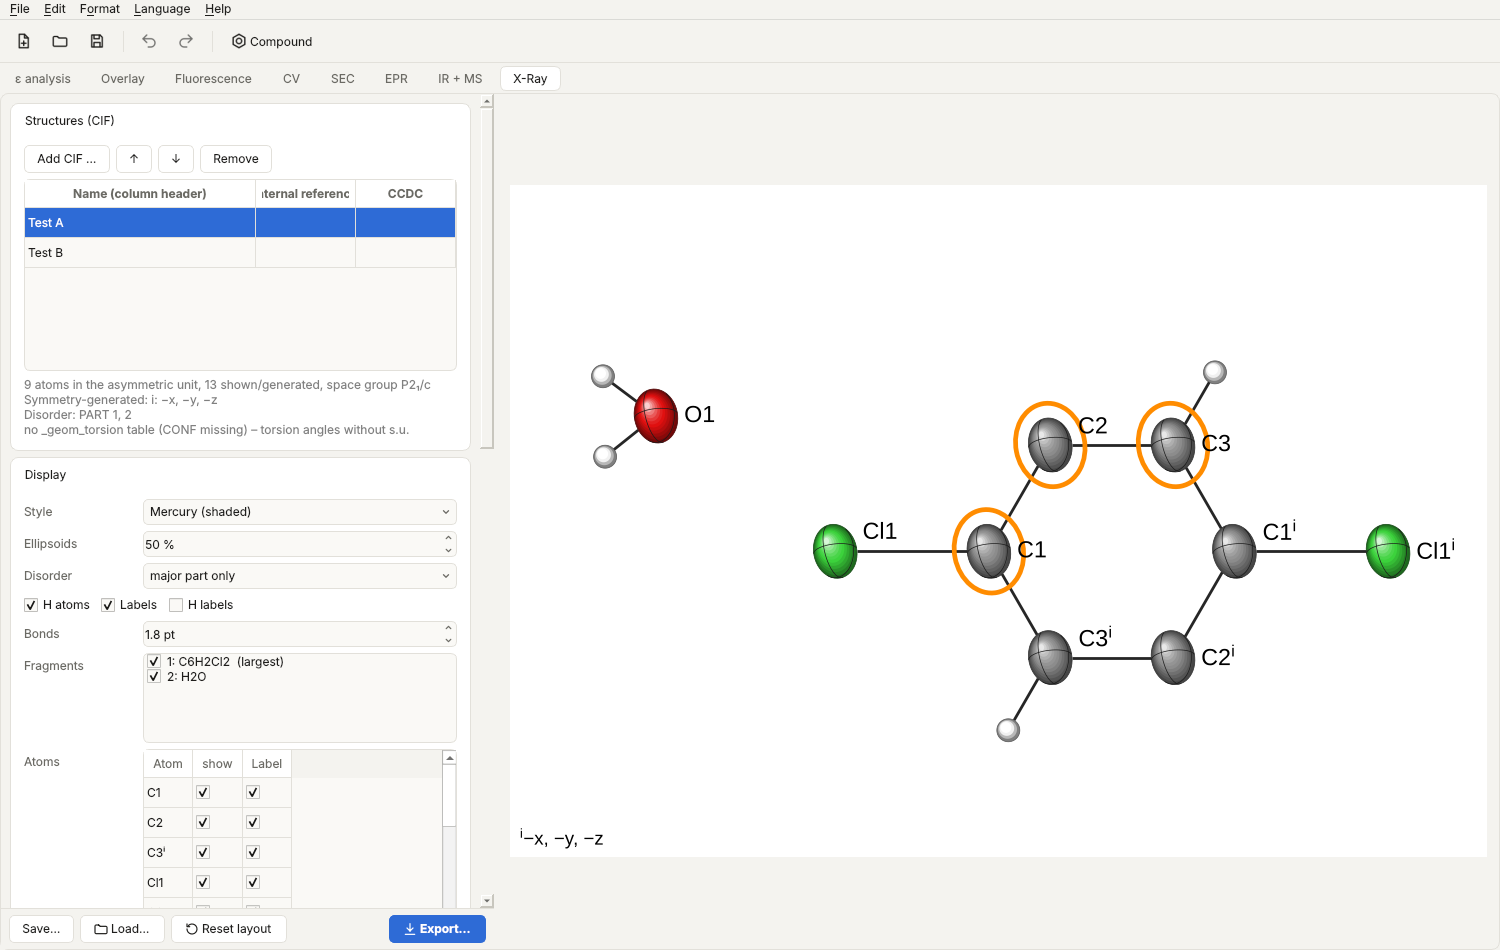
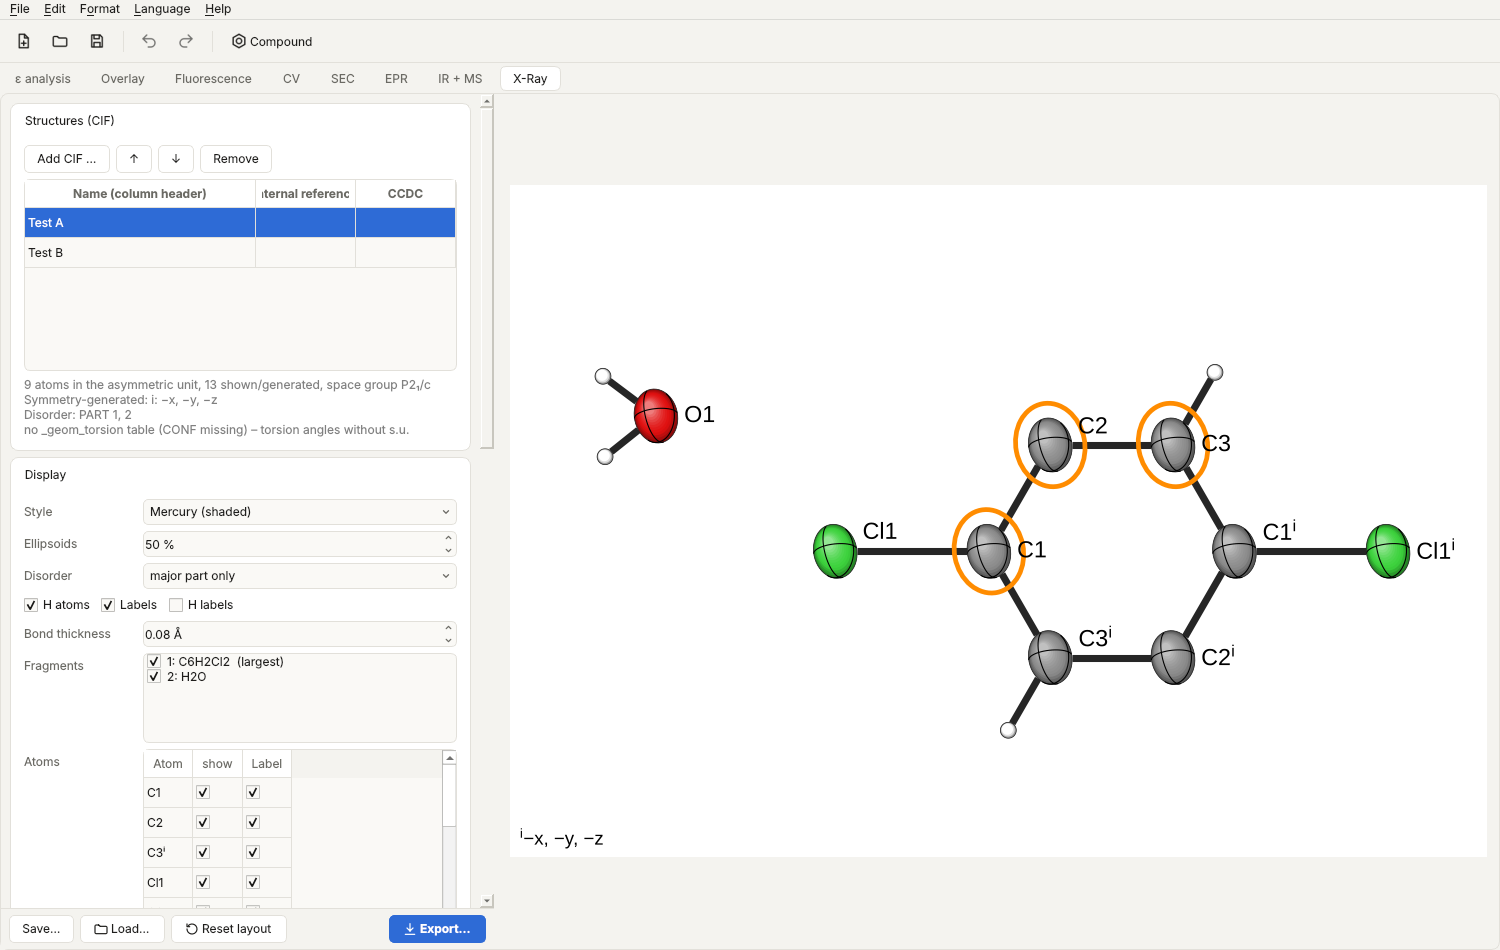
X-Ray: closer to Mercury (matte shading, smaller H, bond thickness in Å)
- Matte shading: base colour dominates, weaker highlight, black outline
- H radius 0.09 Å; principal ellipses black and stronger
- Bond thickness in Å (default 0.08), scales with zoom like Mercury's cylinders

Claude-Session: https://claude.ai/code/session_014cVzqxQuzT2SkSydXnM2ux

diff --git a/uvvis_xray.py b/uvvis_xray.py
@@ -1112,15 +1112,15 @@ def _ellipse_verts(cx, cy, w, h, ang, n=None):
 
 
 def shade_colors(color, n):
-    """Mercury-ähnliche Schattierung: Rand dunkel, Mitte Grundfarbe, Glanzpunkt fast weiß."""
+    """Mercury-ähnliche, matte Schattierung: Rand etwas dunkler, Grundfarbe dominiert, schwacher Glanz oben links."""
     base = np.array(to_rgb(color))
     out = []
     for t in np.linspace(0, 1, n):
-        if t < 0.45:
-            c = base * (0.5 + 0.5 * t / 0.45)
+        if t < 0.3:
+            c = base * (0.62 + 0.38 * t / 0.3)
         else:
-            f = (t - 0.45) / 0.55
-            c = base + (1 - base) * 0.8 * f ** 1.4
+            f = (t - 0.3) / 0.7
+            c = base + (1 - base) * 0.45 * f ** 1.6
         out.append(tuple(np.clip(c, 0, 1)))
     return out
 
@@ -1134,8 +1134,8 @@ def shade_layers(it, n):
     v = -LIGHT[0] * math.sin(th) + LIGHT[1] * math.cos(th)
     nrm = math.sqrt((u / a) ** 2 + (v / b) ** 2) or 1.0
     verts = []
-    for s in np.linspace(1.0, 0.12, n):
-        d = (1 - s) * 0.6 / nrm
+    for s in np.linspace(1.0, 0.25, n):
+        d = (1 - s) * 0.55 / nrm
         verts.append(_ellipse_verts(it["x"] + LIGHT[0] * d, it["y"] + LIGHT[1] * d, it["w"] * s, it["h"] * s,
                                     it["ang"]))
     return verts
@@ -1183,7 +1183,7 @@ class XrayFigure:
         self.center = pts.mean(axis=0)
         self.rmax = float(np.max(np.linalg.norm(pts - self.center, axis=1))) + 1.0
         sc = cfg.get("scale", 1.0)
-        self.lw_bond = opts.get("bond_lw", 1.8) * sc
+        self.bond_w = float(opts.get("bond_w", 0.08))           # Bindungsdicke in Å (Mercury: Zylinder)
         self.lw_edge = max(0.4, 0.6 * sc)
         self.atom_art, self.bond_art, self.sel_art = {}, [], []
         self.auto_pos = {}
@@ -1194,6 +1194,7 @@ class XrayFigure:
         ys = [it["y"] + s_ * max(it["w"], it["h"]) / 2 for it in self.scene["atoms"] for s_ in (-1, 1)] or [-1, 1]
         self.ext = (max(abs(min(xs)), abs(max(xs)), 0.5) + 0.6, max(abs(min(ys)), abs(max(ys)), 0.5) + 0.6)
         self._limits()
+        self.lw_bond = max(0.6, self.bond_w * self.pt_per_A())
         self._build()
         self._footnote()
         self._labels()
@@ -1215,8 +1216,12 @@ class XrayFigure:
         self.ax.set_xlim(cx - W * s / 2, cx + W * s / 2)
         self.ax.set_ylim(cy - H * s / 2, cy + H * s / 2)
 
+    def pt_per_A(self):
+        x0, x1 = self.ax.get_xlim()
+        return 72.0 * self.cfg["figsize_in"][0] / (x1 - x0)
+
     def _project(self):
-        scene = project(self.mol, self.R, self.k, set(self.show), h_radius=self.opts.get("h_radius", 0.13))
+        scene = project(self.mol, self.R, self.k, set(self.show), h_radius=self.opts.get("h_radius", 0.09))
         # Projektion um den Schwerpunkt der gezeigten Atome (nicht aller), damit das Bild zentriert bleibt
         off = self.R @ (self.center - scene["center"])
         for it in scene["atoms"]:
@@ -1255,15 +1260,15 @@ class XrayFigure:
             verts = self._layers(it)
             nfill = len(verts) - 1
             faces = shade_colors(col, nfill) if mercury else [col]
-            edge = tuple(np.array(to_rgb(col)) * 0.35) if mercury else (0, 0, 0)
+            edge = (0.1, 0.1, 0.1) if mercury else (0, 0, 0)
             p = PolyCollection(verts, facecolors=faces + ["none"], edgecolors=["none"] * nfill + [edge],
                                linewidths=[0] * nfill + [self.lw_edge * (0.8 if mercury else 1.0)],
                                antialiaseds=True, closed=True)
             ax.add_collection(p)
             lines = []
             for xs, ys in it["curves"]:
-                ln = Line2D(xs, ys, color="#1a1a1a" if mercury else "black",
-                            lw=max(0.3, 0.45 * self.cfg.get("scale", 1.0)), solid_capstyle="butt")
+                ln = Line2D(xs, ys, color="black", lw=max(0.35, (0.7 if mercury else 0.45) * self.cfg.get("scale", 1.0)),
+                            solid_capstyle="butt")
                 ax.add_line(ln)
                 lines.append(ln)
             self.atom_art[it["k"]] = (p, lines)
@@ -1327,6 +1332,9 @@ class XrayFigure:
         if pan is not None:
             self.pan = list(pan)
         self._limits()
+        self.lw_bond = max(0.6, self.bond_w * self.pt_per_A())
+        for _, _, ln in self.bond_art:
+            ln.set_linewidth(self.lw_bond)
 
     def artists(self):
         return self.order
@@ -1647,7 +1655,7 @@ class XrayTab(TABS.FigureTab):
     STATE_KEY = "xray"
     DEFAULT_STATE = dict(size="half_a4", w_cm=16.0, h_cm=11.0, fmt={"pdf": True, "svg": True, "png": True},
                          layout={}, entries=[], current=None, prob=50, show_h=True, disorder="main", labels=True,
-                         h_labels=False, colors={}, bond_lw=1.8, style="mercury", x_auto=True, x_min=0.0,
+                         h_labels=False, colors={}, bond_w=0.08, style="mercury", x_auto=True, x_min=0.0,
                          x_max=1.0, ymax=0.0)
 
     def __init__(self, main, state):
@@ -1711,8 +1719,8 @@ class XrayTab(TABS.FigureTab):
             row.addWidget(w_)
         row.addStretch(1)
         f.addRow(row)
-        self.sp_bond = QDoubleSpinBox(decimals=1, minimum=0.5, maximum=5.0, singleStep=0.2, suffix=" pt",
-                                      value=st["bond_lw"])
+        self.sp_bond = QDoubleSpinBox(decimals=2, minimum=0.02, maximum=0.4, singleStep=0.01, suffix=" Å",
+                                      value=st.get("bond_w", 0.08))
         f.addRow(T("xr_bond_lw"), self.sp_bond)
         self.lst_frag = QListWidget()
         self.lst_frag.setMaximumHeight(90)
@@ -1856,7 +1864,7 @@ class XrayTab(TABS.FigureTab):
     def collect(self):
         self.st.update(prob=self.sp_prob.value(), show_h=self.cb_h.isChecked(), labels=self.cb_lab.isChecked(),
                        h_labels=self.cb_hlab.isChecked(), disorder=self.cmb_dis.currentData(),
-                       bond_lw=self.sp_bond.value(), style=self.cmb_style.currentData())
+                       bond_w=self.sp_bond.value(), style=self.cmb_style.currentData())
 
     # -- Einträge -------------------------------------------------------------------------
     def entries(self):
@@ -1997,7 +2005,7 @@ class XrayTab(TABS.FigureTab):
                 self.tbl.setItem(r, c, it)
         if cur is not None:
             self.tbl.selectRow(es.index(cur))
-        for w_, v in ((self.sp_prob, int(st["prob"])), (self.sp_bond, st["bond_lw"])):
+        for w_, v in ((self.sp_prob, int(st["prob"])), (self.sp_bond, st.get("bond_w", 0.08))):
             w_.setValue(v)
         self.cmb_dis.setCurrentIndex(max(0, self.cmb_dis.findData(st["disorder"])))
         self.cb_h.setChecked(st["show_h"])
@@ -2312,7 +2320,7 @@ class XrayTab(TABS.FigureTab):
     def opts(self, e):
         st = self.st
         return dict(prob=st["prob"], show_h=st["show_h"], labels=st["labels"], h_labels=st["h_labels"],
-                    colors=st.get("colors") or {}, bond_lw=st["bond_lw"], hidden_frags=e.get("hidden_frags") or [],
+                    colors=st.get("colors") or {}, bond_w=st.get("bond_w", 0.08), hidden_frags=e.get("hidden_frags") or [],
                     style=st.get("style", "mercury"), hidden_atoms=e.get("hidden_atoms") or [],
                     label_on=e.get("label_on") or {})
 

diff --git a/uvvis_i18n.py b/uvvis_i18n.py
@@ -849,7 +849,7 @@ TEXTS = {
     "xr_show_h": ("H-Atome", "H atoms"),
     "xr_labels": ("Labels", "Labels"),
     "xr_h_labels": ("H-Labels", "H labels"),
-    "xr_bond_lw": ("Bindungen", "Bonds"),
+    "xr_bond_lw": ("Bindungsdicke", "Bond thickness"),
     "xr_frags": ("Fragmente", "Fragments"),
     "xr_frags_tip": ("Getrennte Fragmente (Lösungsmittel, Gegenionen) ein-/ausblenden",
                      "Show/hide separate fragments (solvent, counter-ions)"),

diff --git a/CLAUDE.md b/CLAUDE.md
@@ -63,7 +63,8 @@ und Tabelle, ChemDraw-Struktur, Küvettenfoto). Dazu Tabs für Overlay (gemessen
   ebenso). Erzeugte Atome mit römischer Hochzahl je Operation + Fußnote. Fehlordnung Standard: PART 0 + je
   `disorder_assembly` der Teil mit der größten Besetzung. Ellipsoide: k = √χ²₃(p) (50 % → 1.5382), Umriss = 2×2-Block
   von R·U·Rᵀ. Aussehen Standard **wie Mercury** (Nutzerwunsch): schattierte Schichten (`shade_layers`, Licht oben
-  links, Schichten immer innerhalb des Umrisses, keine Clip-Pfade), normale Labels; „flach“ = Olex2 (fett, weißer Rand).
+  links, matt, Schichten immer innerhalb des Umrisses, keine Clip-Pfade), H-Radius 0.09 Å, Bindungsdicke in Å
+  (`bond_w`, Standard 0.08, skaliert mit dem Zoom wie Mercurys Zylinder), normale Labels; „flach“ = Olex2 (fett, weißer Rand).
   Labels/Atome je Atom über `label_on`/`hidden_atoms` (Schlüssel Label|Operation). Tabellen englisch beschriftet, Zahlen exakt wie in der CIF, echtes Minus (U+2212).
 - Verbindung des Projekts (`compound`) ist nur Vorgabe: Tabs mit eigener Struktur/Molmasse behalten diese.
 - UI zweisprachig: jeder sichtbare Text über `uvvis_i18n.T(key)` mit DE **und** EN-Eintrag.
